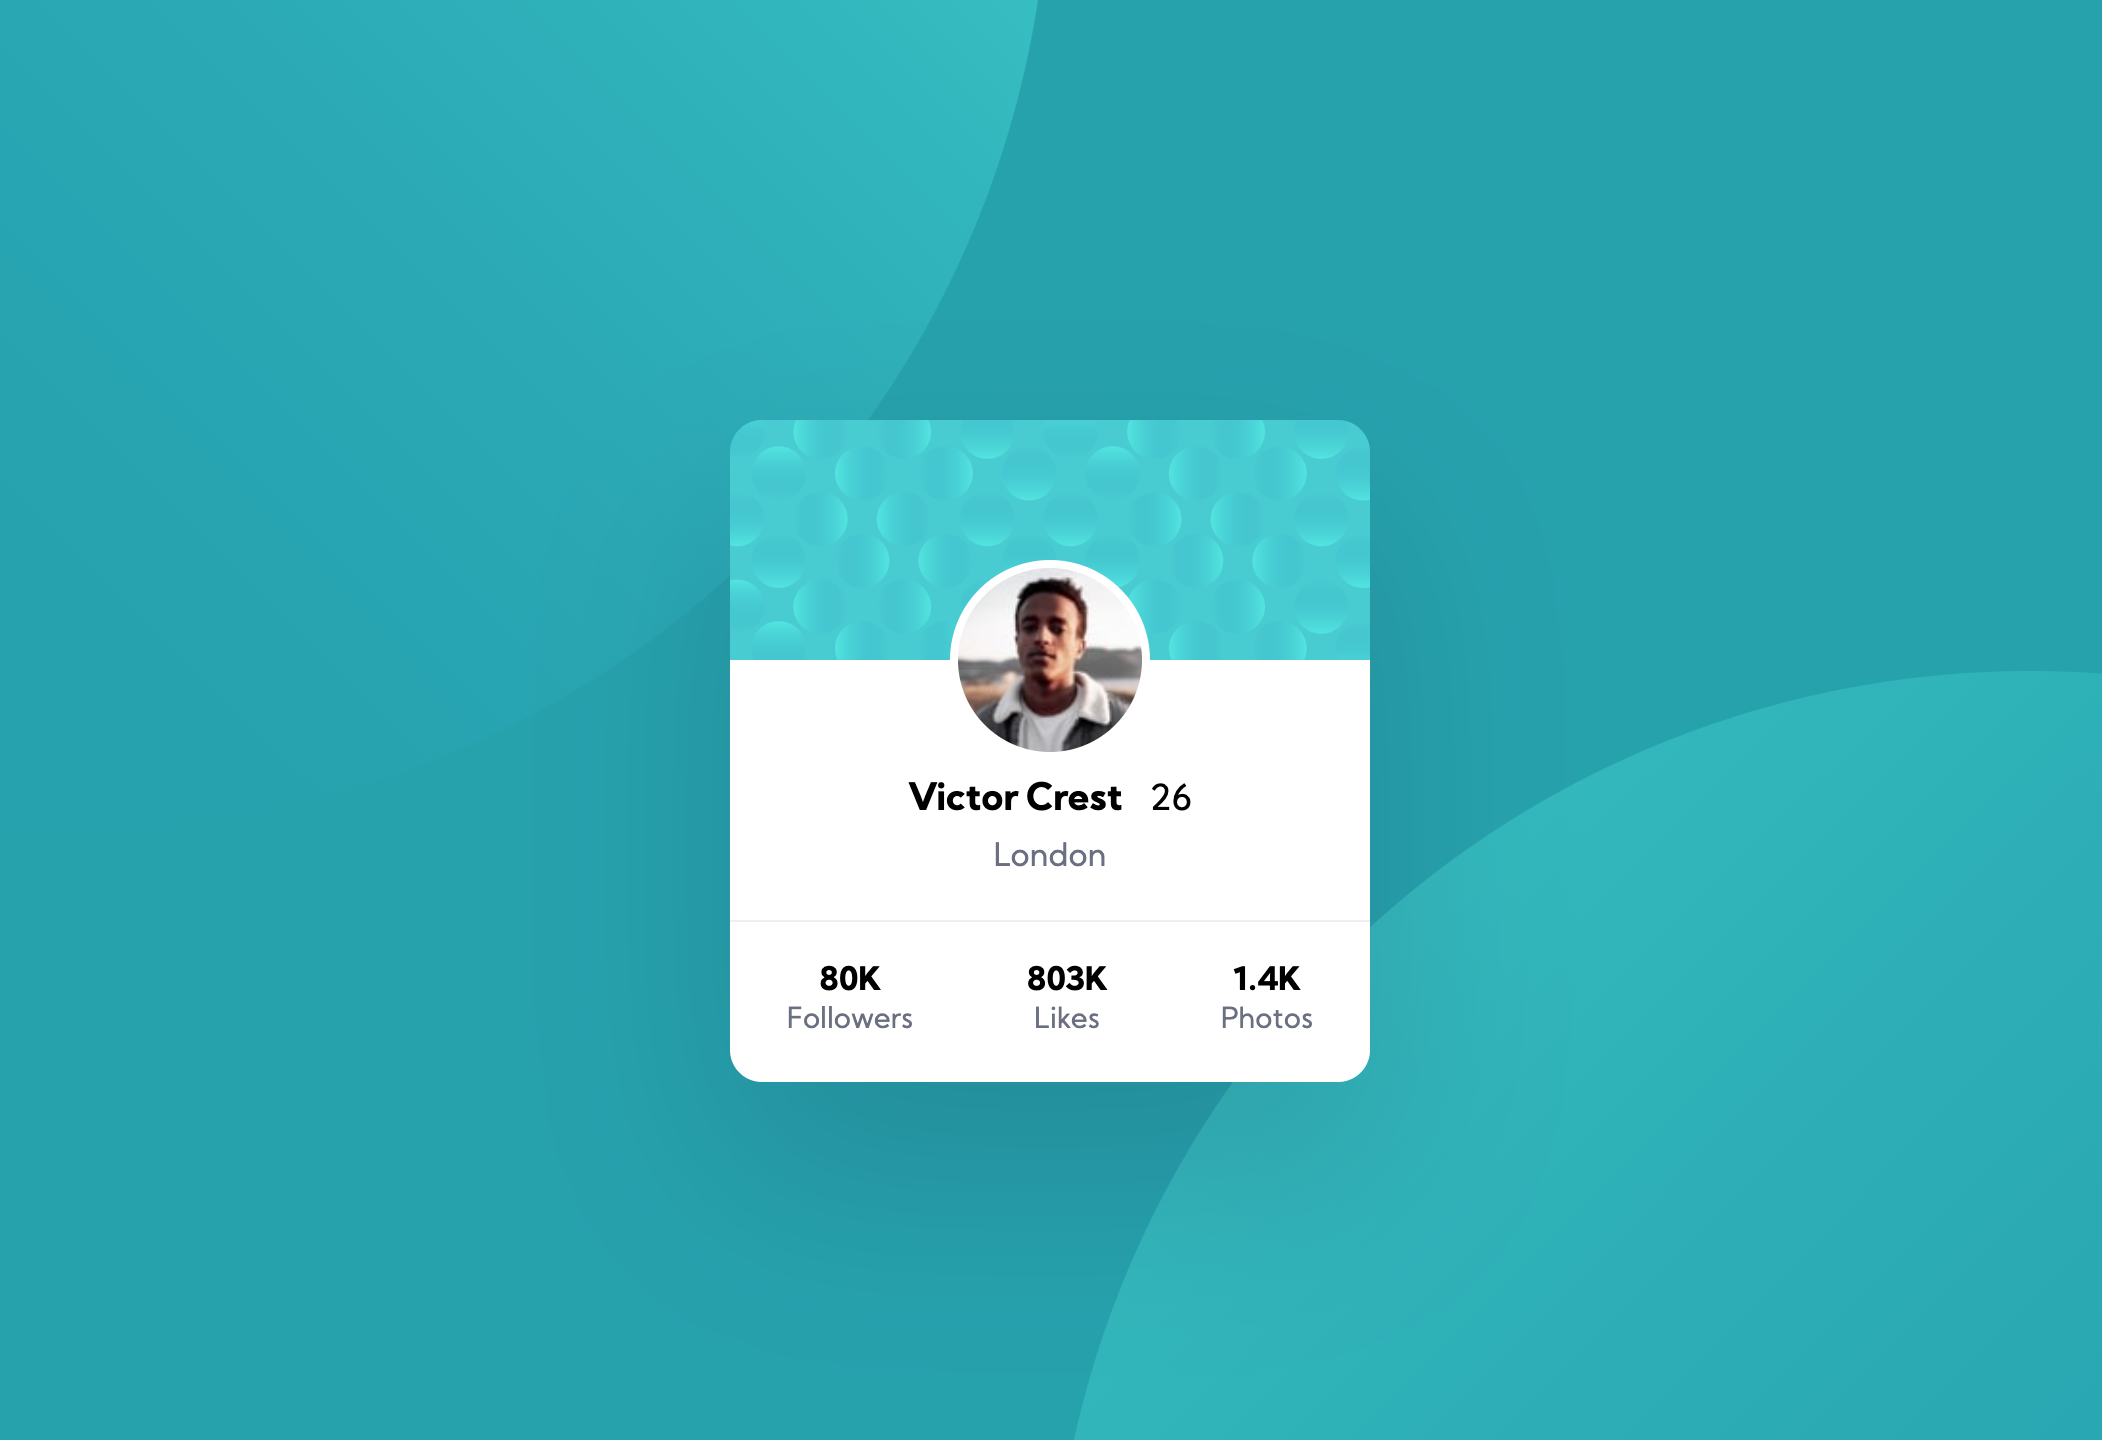
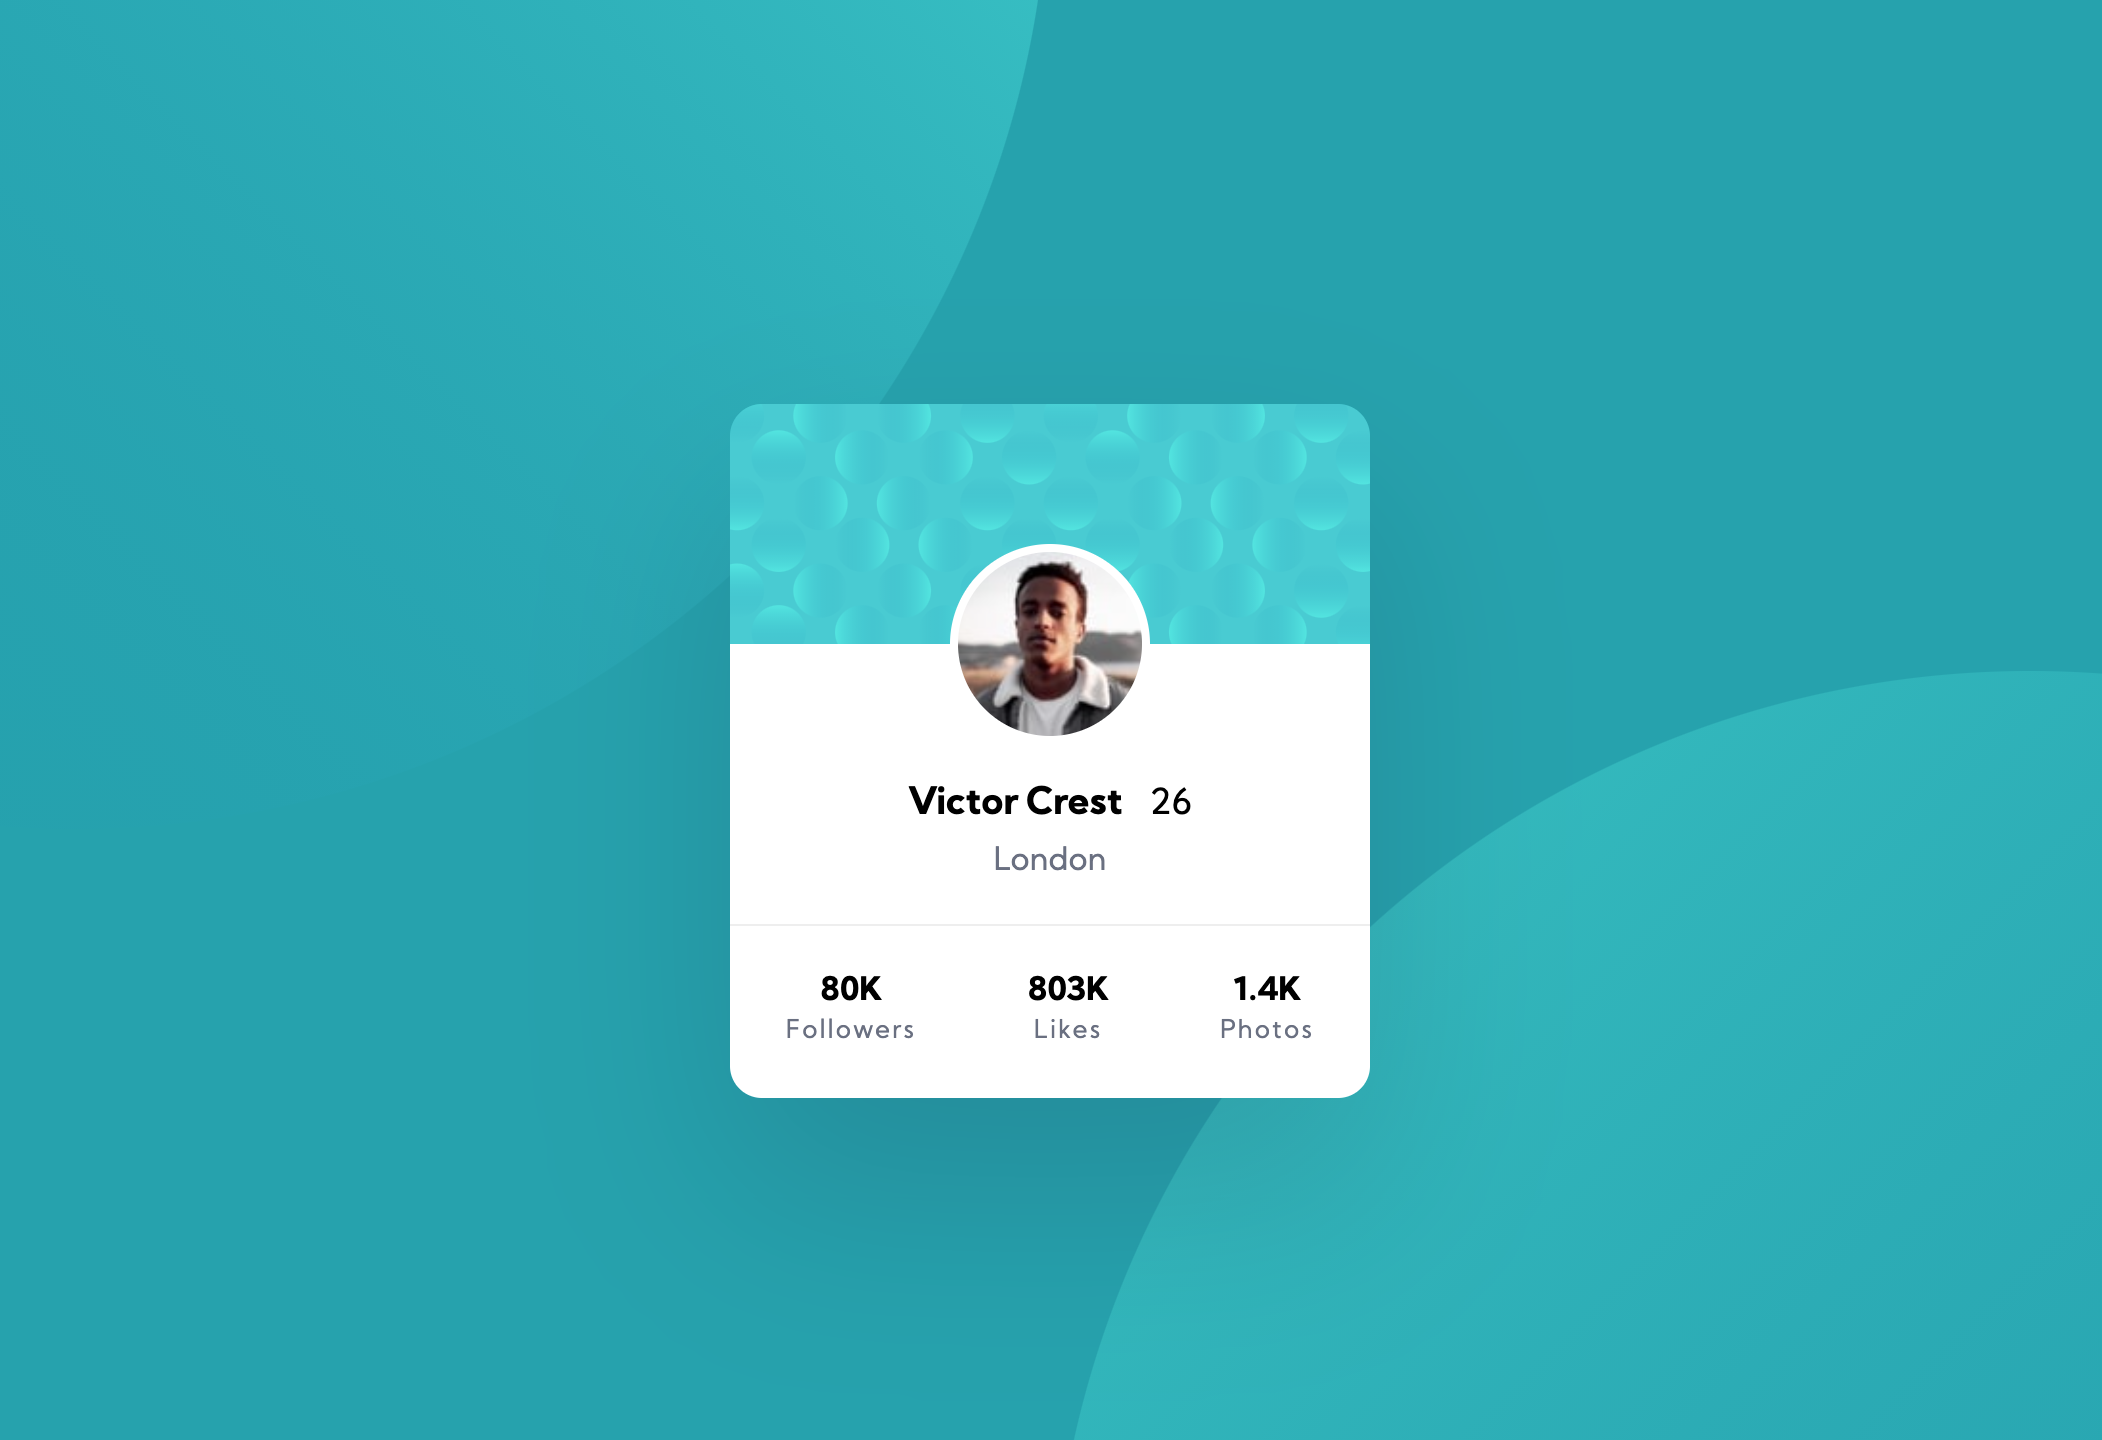
update styles

diff --git a/style.css b/style.css
@@ -68,7 +68,7 @@ main {
 }
 
 .card__content__info {
-  height: 130px;
+  height: 140px;
   display: flex;
   justify-content: flex-end;
   align-items: center;
@@ -94,7 +94,7 @@ main {
   display: flex;
   justify-content: space-around;
   justify-items: center;
-  height: 80px;
+  height: 86px;
 }
 
 .card__content__stats div {
@@ -106,8 +106,9 @@ main {
 }
 
 .card__content__stats div p {
-  font-size: 0.9em;
+  font-size: 0.8em;
   color: var(--dark-gr-blue);
+  letter-spacing: 1px;
 }
 
 .horizontal-line {
